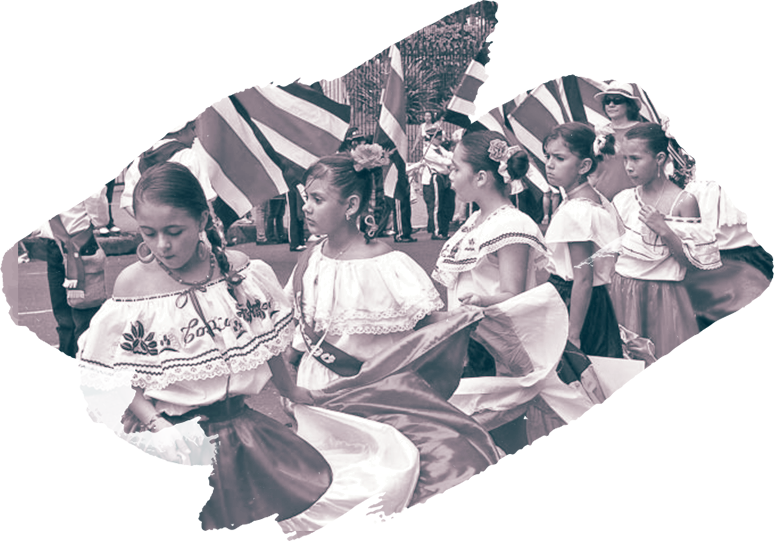
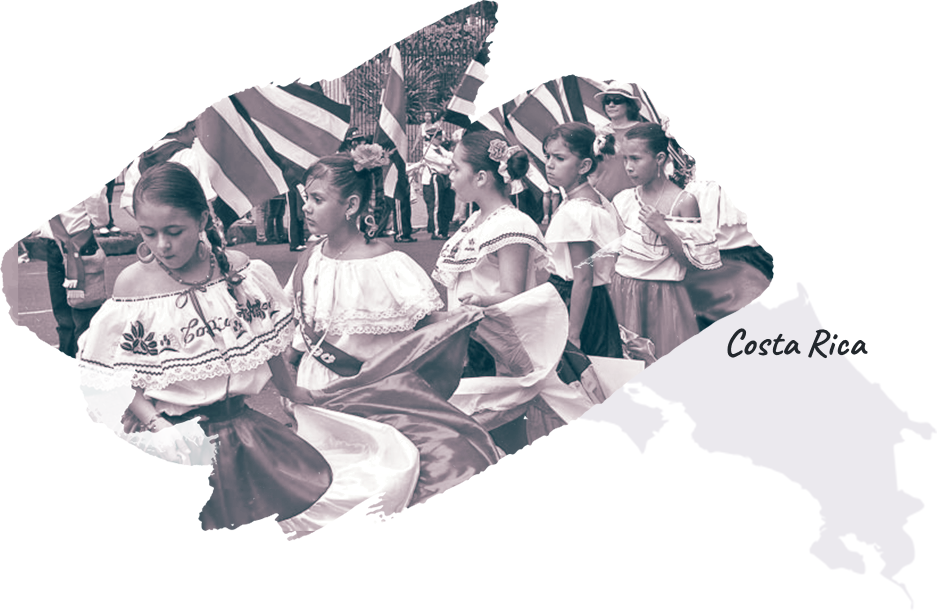
изменил изображения в taste

diff --git a/coffee/src/scss/blocks/taste/taste.scss b/coffee/src/scss/blocks/taste/taste.scss
@@ -4,45 +4,45 @@
     margin-left: auto;
     margin-right: auto;
     display: flex;
-    flex-direction: row;
-    justify-content: space-between;
+    justify-content: center;
     padding-bottom: 100px;
-
+    
     &__image-container
     {
         position: relative;
-        width: 52%;
-        height: 100%;
+        max-width: 950px;
+        max-height: 541px;
     }
-
+    
     &__country-photo
     {
-        width: 100%;
+        max-width: 100%;
     }
-
+    
     &__package-image
     {
         position: absolute;
         width: 30%;
-
+        
         &_left
         {
-            bottom: -83px;
-            right: 60px;
+            top: 48%;
+            right: 21%;
         }
-
+        
         &_right
         {
-            bottom: -83px;
-            left: 2px;
+            top: 34%;
+            left: 28%;
         }
     }
-
+    
     &__description
     {
-        width: 30%;
+        max-width: 525px;
+        //padding-left: 200px;
     }
-
+    
     &__title
     {
         font-family: $g-title-font;
@@ -51,7 +51,7 @@
         text-transform: uppercase;
         color: $g-title-color;
     }
-
+    
     &__subtitle
     {
         font-family: $g-subtitle-font;
@@ -61,7 +61,7 @@
         text-transform: uppercase;
         color: $g-subtitle-color;
     }
-
+    
     &__text
     {
         font-family: $g-button-text-font;

diff --git a/coffee/src/scss/blocks/section/section.scss b/coffee/src/scss/blocks/section/section.scss
@@ -17,7 +17,7 @@
         font-size: 36px;
         font-family: $g-title-font;
         text-transform: uppercase;
-        font-weight: 400;
+        font-weight: 500;
     }
 
 }

diff --git a/coffee/src/scss/blocks/subscribe-description/subsrcibe-description.scss b/coffee/src/scss/blocks/subscribe-description/subsrcibe-description.scss
@@ -1,6 +1,6 @@
 .subscribe-description
 {
-    width: 1300px;
+    max-width: 1300px;
     margin-left: auto;
     margin-right: auto;
     display: flex;

diff --git a/coffee/src/scss/blocks/subscribe-step/subscribe-step.scss b/coffee/src/scss/blocks/subscribe-step/subscribe-step.scss
@@ -11,6 +11,7 @@
     {
         max-width: 300px;
         padding: 30px;
+        
 
     }
 
